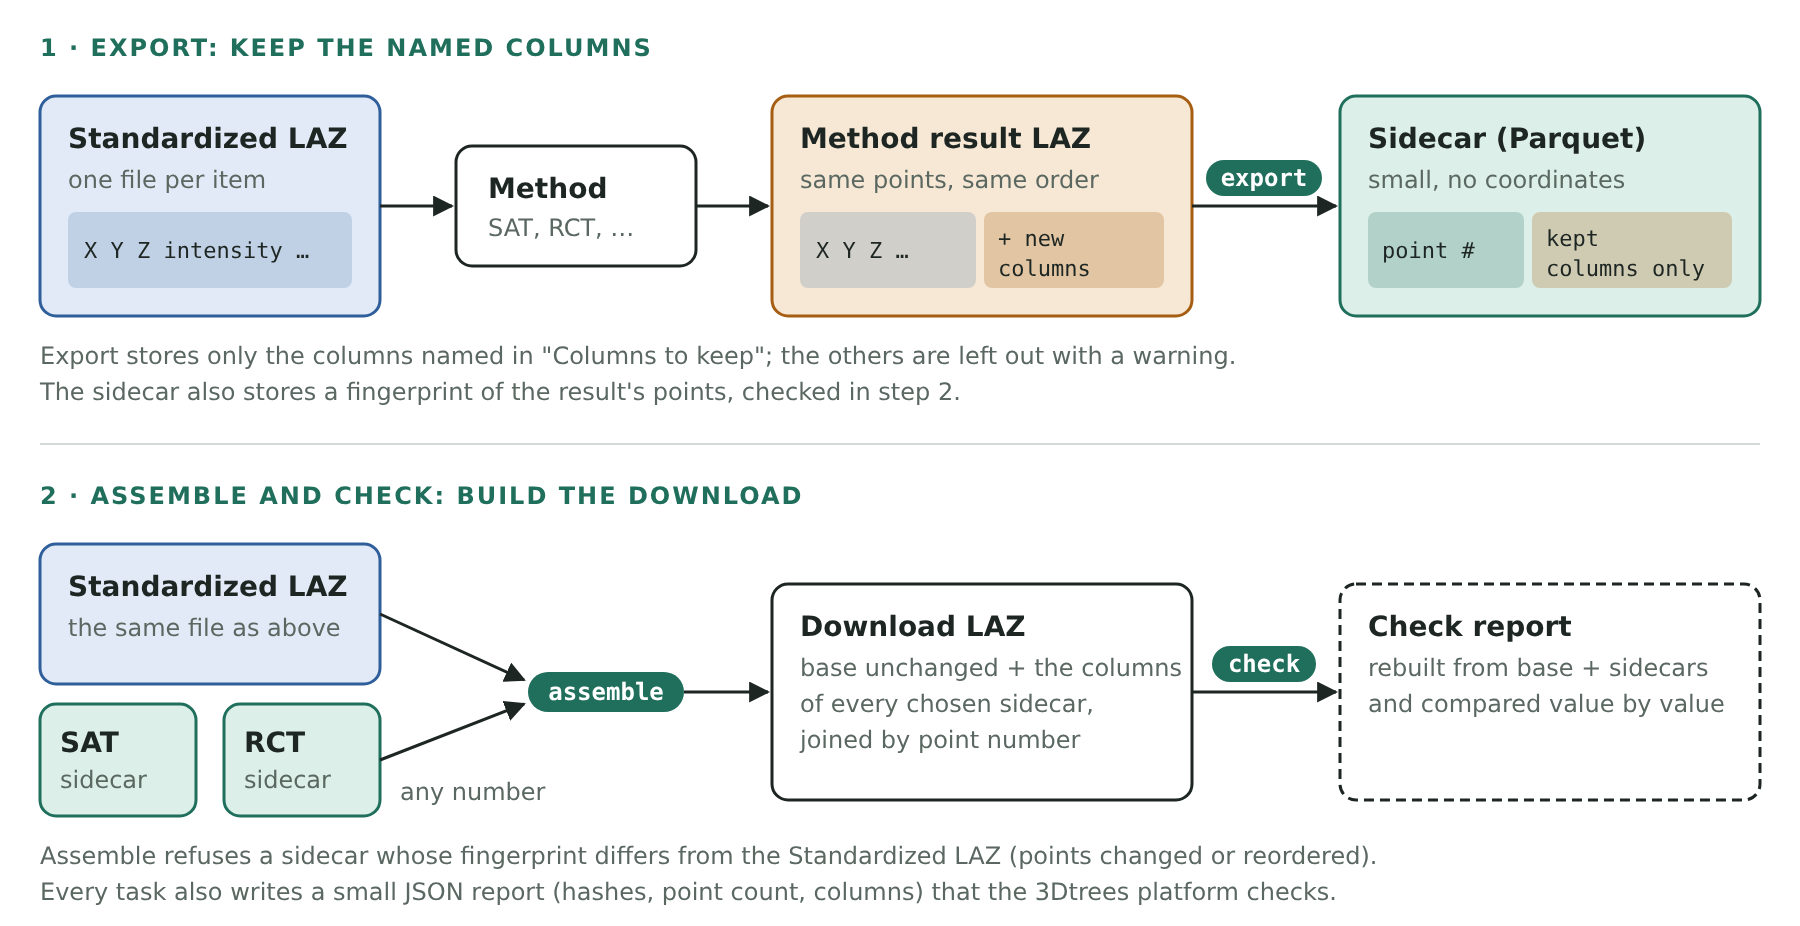
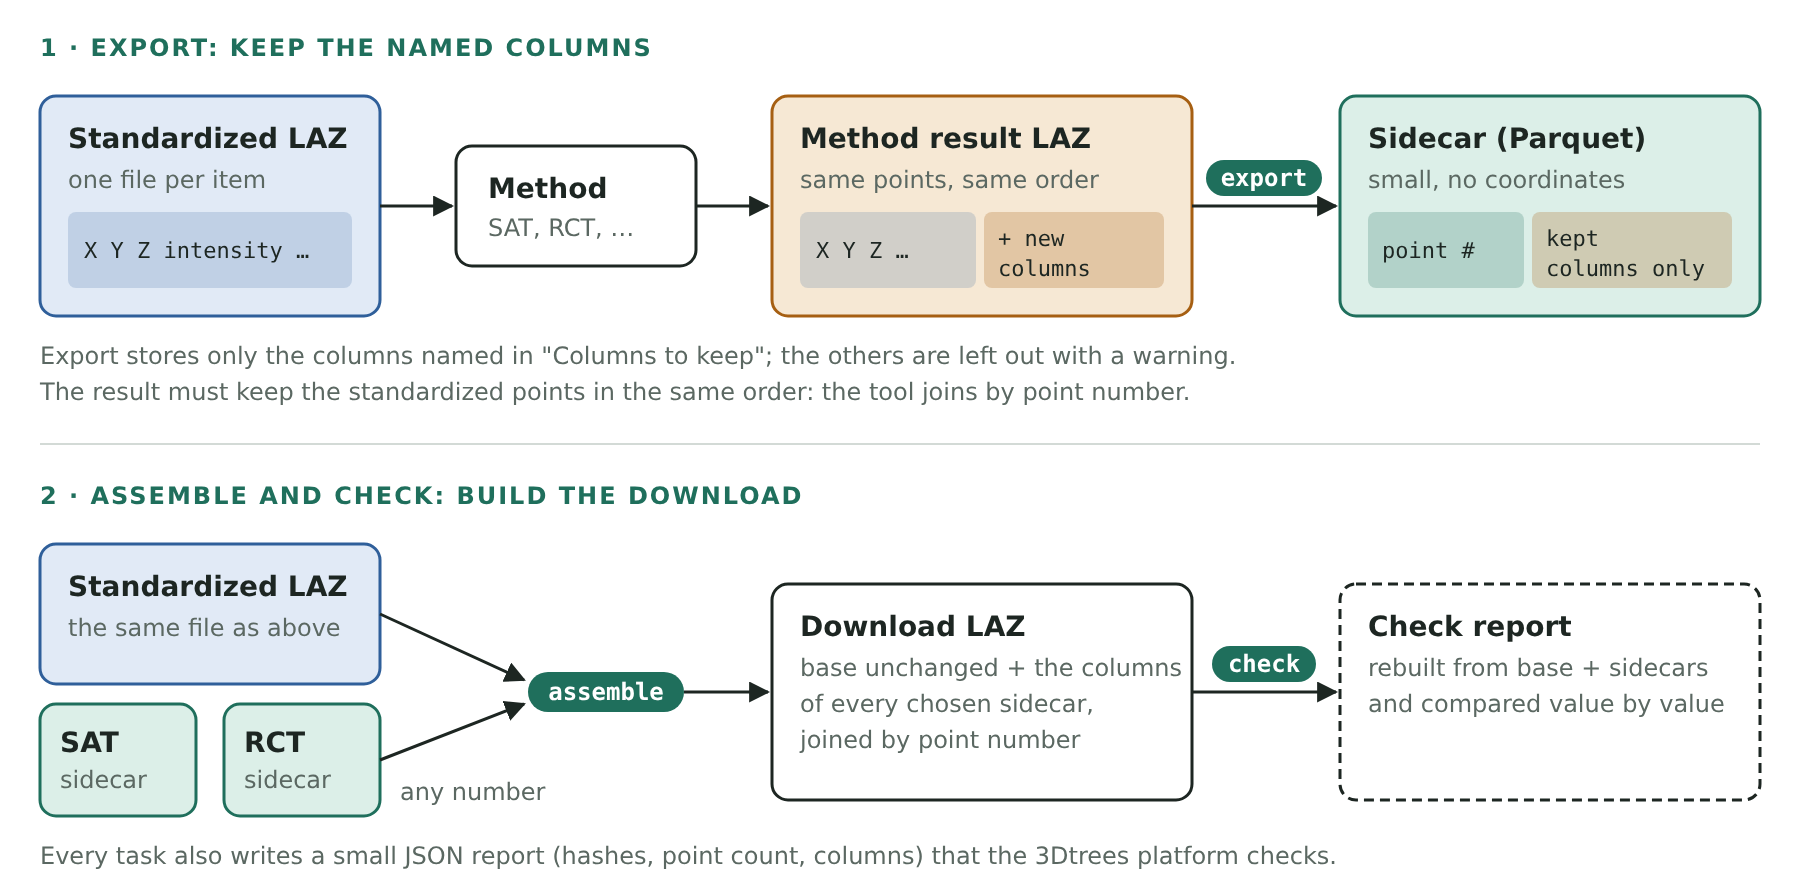
Drop the points fingerprint check
Assemble joins by point number and checks generation, item, point count
and columns; it no longer compares a points digest of the method output
with the base.

Claude-Session: https://claude.ai/code/session_01Rd5dVqLwXSLANdLSL4EGD3

Changed region(s): [[0.0, 0.5157, 0.9644, 0.9708], [0.0, 0.091, 0.9956, 0.4551], [0.0311, 0.0303, 0.3733, 0.0607]]

diff --git a/src/sidecar.py b/src/sidecar.py
@@ -1,9 +1,8 @@
 """Indexed scientific sidecars joined onto a standardized LAZ by point index.
 
 Spatial inference/remapping belongs to the pinned scientific tool. This boundary
-never matches coordinates: export records a digest of the method output's points
-(header and every standard point field, in order), and assembly joins solely by
-point index after the base yields the same digest.
+never matches coordinates: assembly joins solely by point index, so a method
+output must keep the base points in their order.
 """
 
 import copy
@@ -32,48 +31,9 @@ def identity(generation, item):
     return {"generation": generation, "item": item}
 
 
-class _PointsDigest:
-    """SHA-256 of a header and every standard point field in point order.
-
-    One running hash per field keeps the digest independent of chunk size."""
-
-    def __init__(self, header):
-        crs = header.parse_crs()
-        self.header = json.dumps(
-            {
-                "points": header.point_count,
-                "format": header.point_format.id,
-                "scales": [float(v) for v in header.scales],
-                "offsets": [float(v) for v in header.offsets],
-                "crs": crs.to_wkt() if crs else None,
-            },
-            sort_keys=True,
-        )
-        self.names = list(header.point_format.standard_dimension_names)
-        self.fields = {n: hashlib.sha256() for n in self.names}
-
-    def update(self, chunk):
-        for name in self.names:
-            self.fields[name].update(np.ascontiguousarray(chunk[name]).tobytes())
-
-    def hexdigest(self):
-        total = hashlib.sha256(self.header.encode())
-        for name in self.names:
-            total.update(name.encode() + self.fields[name].digest())
-        return total.hexdigest()
-
-
 def manifest_of(table):
     """The identity and dimensions a sidecar carries in its Parquet schema."""
     return json.loads((table.schema_arrow.metadata or {})[b"3dtrees"])
-
-
-def points_sha256(path):
-    with laspy.open(path) as reader:
-        digest = _PointsDigest(reader.header)
-        for chunk in reader.chunk_iterator(CHUNK_POINTS):
-            digest.update(chunk)
-    return digest.hexdigest()
 
 
 def unchanged_base(base, enriched):
@@ -169,16 +129,10 @@ class _Rows:
 
 
 def export(enriched_path, output, *, generation, item, owned, producer):
-    """Store the `owned` dimensions of a method output with each point's index.
-
-    The output is not compared with the base here: its points digest is
-    recorded, and assembly refuses the sidecar unless the base matches it."""
+    """Store the `owned` dimensions of a method output with each point's index."""
     output = Path(output)
     if output.exists():
         raise ValueError("Sidecar destination already exists")
-    # A first pass for the digest keeps the manifest in the schema, where it
-    # survives any Parquet rewrite of the rows.
-    digest = points_sha256(enriched_path)
     with laspy.open(enriched_path) as enriched:
         header = enriched.header
         names = set(header.point_format.dimension_names)
@@ -199,7 +153,6 @@ def export(enriched_path, output, *, generation, item, owned, producer):
             "contract": CONTRACT,
             **identity(generation, item),
             "points": header.point_count,
-            "points_sha256": digest,
             "dimensions": {n: d.str for n, d in dtypes.items()},
             "producer": producer,
         }
@@ -302,10 +255,7 @@ def assemble(base_path, sidecars, output, *, generation, item):
     output = Path(output)
     if output.exists() or output.resolve() == Path(base_path).resolve():
         raise ValueError("Assembly destination must be new")
-    expected = {
-        **identity(generation, item),
-        "points_sha256": points_sha256(base_path) if sidecars else None,
-    }
+    expected = identity(generation, item)
     with laspy.open(base_path) as base:
         header = copy.deepcopy(base.header)
         count = header.point_count
@@ -319,11 +269,6 @@ def assemble(base_path, sidecars, output, *, generation, item):
                 manifest.get(k) != expected[k] for k in ("generation", "item")
             ):
                 raise ValueError("Sidecar base identity mismatch")
-            if manifest.get("points_sha256") != expected["points_sha256"]:
-                raise ValueError(
-                    "Sidecar points differ from the base: point order, header "
-                    "or a base field changed"
-                )
             if manifest["points"] != count or table.metadata.num_rows != count:
                 raise ValueError("Sidecar point count mismatch")
             if set(table.schema_arrow.names) != {

diff --git a/tests/test_sidecar.py b/tests/test_sidecar.py
@@ -62,14 +62,14 @@ def test_roundtrip_keeps_duplicate_coordinates_separate_and_preserves_all_base_f
     assert actual.PredInstance_SAT[0] != actual.PredInstance_SAT[1]
 
 
-def test_reordered_remap_output_is_rejected_even_with_duplicate_xyz(cloud, tmp_path):
+def test_sidecar_with_another_point_count_is_rejected(cloud, tmp_path):
     source, enriched, identity = cloud
     result = laspy.read(enriched)
-    result.points = result.points[[1, 0, 2, 3, 4, 5]].copy()
+    result.points = result.points[:5].copy()
     result.write(enriched)
-    sidecar = tmp_path / "bad.parquet"
+    sidecar = tmp_path / "short.parquet"
     save(cloud, sidecar)
-    with pytest.raises(ValueError, match="point order"):
+    with pytest.raises(ValueError, match="point count"):
         assemble(source, [sidecar], tmp_path / "bad.laz", **identity)
 
 
@@ -85,21 +85,13 @@ def test_missing_duplicate_and_out_of_range_indices_fail(cloud, tmp_path, indice
         assemble(source, [sidecar], tmp_path / "bad.laz", **identity)
 
 
-@pytest.mark.parametrize(
-    ("change", "message"),
-    [("item", "base identity"), ("generation", "base identity"), ("field", "differ")],
-)
-def test_wrong_base_identity_fails(cloud, tmp_path, change, message):
+@pytest.mark.parametrize("change", ["item", "generation"])
+def test_wrong_base_identity_fails(cloud, tmp_path, change):
     source, _, identity = cloud
     sidecar = tmp_path / "sat.parquet"
     save(cloud, sidecar)
-    if change == "field":
-        data = laspy.read(source)
-        data.intensity[0] += 1
-        data.write(source)
-    else:
-        identity[change] = 2 if change == "item" else str(uuid4())
-    with pytest.raises(ValueError, match=message):
+    identity[change] = 2 if change == "item" else str(uuid4())
+    with pytest.raises(ValueError, match="base identity"):
         assemble(source, [sidecar], tmp_path / "bad.laz", **identity)
 
 
@@ -109,17 +101,6 @@ def test_owned_dimensions_cannot_overwrite_another_product(cloud, tmp_path):
     save(cloud, sidecar)
     with pytest.raises(ValueError, match="ownership collision"):
         assemble(source, [sidecar, sidecar], tmp_path / "bad.laz", **identity)
-
-
-def test_changed_geometry_is_not_silently_coordinate_joined(cloud, tmp_path):
-    source, enriched, identity = cloud
-    changed = laspy.read(enriched)
-    changed.header.offsets[0] += 1
-    changed.write(enriched)
-    sidecar = tmp_path / "bad.parquet"
-    save(cloud, sidecar)
-    with pytest.raises(ValueError, match="differ from the base"):
-        assemble(source, [sidecar], tmp_path / "bad.laz", **identity)
 
 
 def test_existing_artifacts_are_not_overwritten(cloud, tmp_path):
@@ -155,17 +136,6 @@ def test_independent_methods_assemble_without_changing_base(cloud, tmp_path):
     unchanged_base(laspy.read(source), result)
     assert np.array_equal(result.species_id_SAT, base.species_id_SAT)
     assert list(result.PredInstance_SAT) == [-1, 3, 3, 8, 8, 8]
-
-
-def test_changed_crs_rejected(cloud, tmp_path):
-    source, enriched, identity = cloud
-    result = laspy.read(enriched)
-    result.header.add_crs(CRS.from_epsg(32633))
-    result.write(enriched)
-    sidecar = tmp_path / "bad.parquet"
-    save(cloud, sidecar)
-    with pytest.raises(ValueError, match="differ from the base"):
-        assemble(source, [sidecar], tmp_path / "bad.laz", **identity)
 
 
 def test_chunk_boundaries_preserve_reordered_rows_and_reject_cross_batch_duplicates(

diff --git a/tests/test_run.py b/tests/test_run.py
@@ -251,15 +251,3 @@ def test_export_requires_the_columns_to_store(item):
     args = ["export", *identity(item, base=False), "--enriched", item["sat"]]
     with pytest.raises(SystemExit):
         run(*args, "--output", out, "--report", item["dir"] / "x.json")
-
-
-def test_assemble_rejects_a_sidecar_from_a_reordered_output(item):
-    reordered = laspy.read(item["sat"])
-    order = np.arange(len(reordered.points))
-    order[[10, 20]] = order[[20, 10]]
-    reordered.points = reordered.points[order].copy()
-    reordered.write(item["sat"])
-    sat, _ = export(item, "sat")
-    out = item["dir"] / "member.laz"
-    args = ["assemble", *identity(item), "--output", out, "--sidecar", sat]
-    assert run(*args, "--report", item["dir"] / "r.json") == 2

diff --git a/README.md b/README.md
@@ -17,22 +17,19 @@ point cloud, and checking it independently.
   columns named in `--columns`, for example SAT's two columns, a species output's
   own columns, or one method's columns from a combined legacy file. Columns of
   the output that are not named are printed as a warning and listed under
-  `dropped` in the report. The sidecar records a fingerprint of the output's
-  points (`points_sha256`: header, CRS and every standard point field, in order).
+  `dropped` in the report. The output must hold the standardized points in the
+  same order; the sidecar is joined back by point number only.
 - **assemble** keeps every base field unchanged and in order and adds the
-  selected sidecars' columns. It refuses a sidecar whose fingerprint differs from
-  the base, so a method that reordered, dropped or changed points is caught.
-  Any subset is valid (points only, one method, all). Sidecars in point order
-  stream in constant memory.
+  selected sidecars' columns. It refuses a sidecar with another generation,
+  item or point count. Any subset is valid (points only, one method, all).
+  Sidecars in point order stream in constant memory.
 - **check** rebuilds the point cloud from base and sidecars and compares every
   dimension point by point.
 
 Every task writes a JSON report with identities, point count, dimensions and
 SHA-256 hashes, so the 3Dtrees worker verifies stored bytes without downloading
-point clouds. On 85 M points (10 cores) the first version took export 20 s,
-assemble 35 s, check 62 s, each under 0.6 GB of memory and without temporary
-disk; the fingerprint adds one read pass to export and assemble (about 25 % on
-10 M points).
+point clouds. On 85 M points (10 cores): export 20 s, assemble 35 s, check 62 s,
+each under 0.6 GB of memory and without temporary disk.
 
 ## Usage
 
